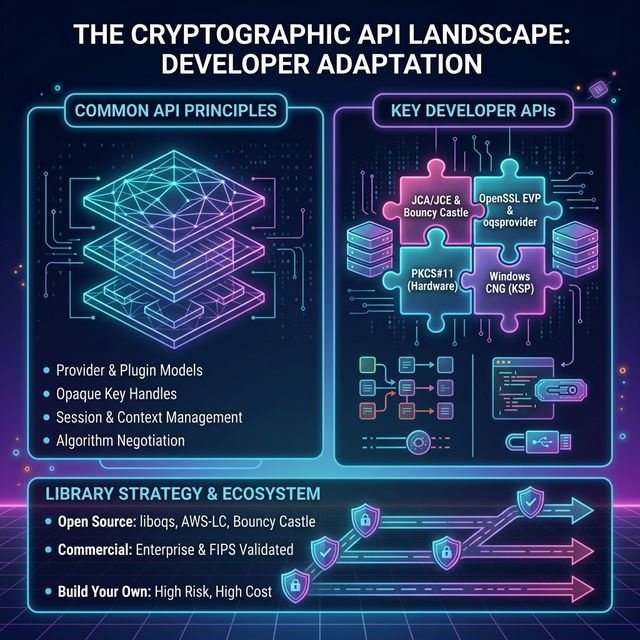
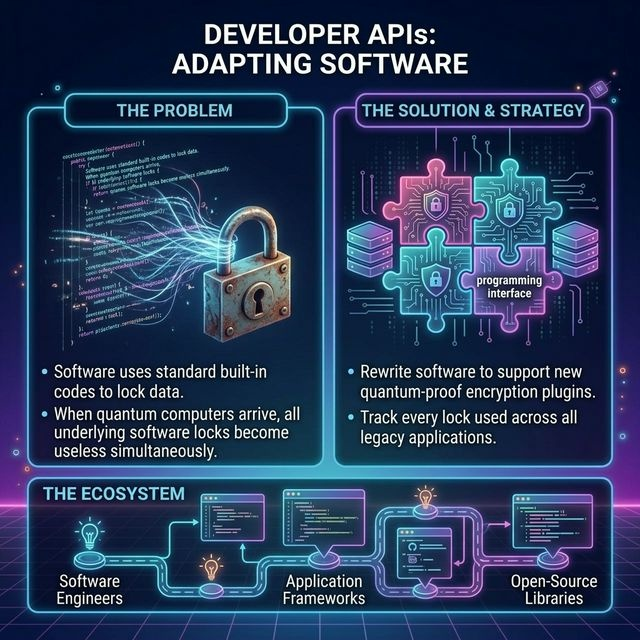
fix: rewrite curious summaries and infographics for EnergyUtilities, CryptoDevAPIs, and Entropy modules

diff --git a/src/components/PKILearning/modules/EnergyUtilities/curious-summary.md b/src/components/PKILearning/modules/EnergyUtilities/curious-summary.md
@@ -1,21 +1,6 @@
-# Energy & Utilities PQC — In Simple Terms
+Curious about why the power grid is exceptionally vulnerable?
 
-## What This Is About
-
-The systems that deliver electricity to your home, clean water to your tap, and natural gas to your stove are all controlled by computers. Power plants, water treatment facilities, oil pipelines, and electrical grids use digital networks to monitor equipment, balance supply and demand, and respond to emergencies. These control systems communicate using encrypted connections to prevent unauthorized access.
-
-Think of it like the locks on the control room doors at a power plant. Right now, those locks are strong enough that nobody can pick them. But quantum computers could eventually become the master lockpick that opens them all. If an attacker could break the encryption protecting these systems, they could potentially disrupt power to entire cities, contaminate water supplies, or cause industrial accidents.
-
-## Why It Matters
-
-Energy and utility systems are among the most critical infrastructure in any country. A cyberattack on a power grid does not just cause an inconvenience — it can endanger lives. Hospitals lose power. Heating systems fail in winter. Traffic signals go dark. Water purification stops. The cascading effects of a major utility disruption touch every part of society.
-
-These systems also have a unique challenge: much of the equipment was designed to last 20 to 30 years or more. The control devices in a power substation or water treatment plant are not like a phone you replace every few years. Upgrading their security means working with old hardware, limited processing power, and systems that can never be taken fully offline. You cannot just shut down the power grid to install a software update.
-
-## The Key Takeaway
-
-Energy and utility systems are high-value targets with uniquely difficult upgrade paths. Their equipment lasts decades, runs around the clock, and often has limited computing power. Upgrading these systems to quantum-safe security requires careful planning that accounts for these real-world constraints while ensuring that essential services are never interrupted.
-
-## What's Happening
-
-Energy regulators in the United States, Europe, and Asia are beginning to include quantum risk in their cybersecurity frameworks. The North American Electric Reliability Corporation (NERC) and similar bodies are evaluating how quantum threats affect compliance standards for power grids. Utility companies are conducting risk assessments to identify their most vulnerable systems. Equipment manufacturers are exploring how to add quantum-safe encryption to industrial control devices with limited processing power. Government agencies have flagged energy infrastructure as a top priority for quantum-safe upgrades. Pilot programs are underway to test quantum-safe communications in operational utility networks.
+**The Problem:** Unlike office laptops that are replaced every few years, power plants use safety-critical hardware that operates for decades. Future quantum computers will easily break current encryption long before this equipment physically expires. If a hacker forges a safety command, it can cause devastating physical blackouts or pipeline explosions.
+**The Solution:** The energy sector must apply advanced quantum-proof security directly to physical infrastructure today to prevent future catastrophic hacking. 
+**The Strategy:** Transitioning the power grid requires upgrading long-lasting hardware to support unforgeable commands, ensuring the lights stay on no matter how fast supercomputers evolve.
+**The Ecosystem:** Protecting the grid impacts power plants, transmission operators, and international energy regulatory agencies.

diff --git a/src/components/PKILearning/modules/CryptoDevAPIs/curious-summary.md b/src/components/PKILearning/modules/CryptoDevAPIs/curious-summary.md
@@ -1,23 +1,6 @@
-# Cryptographic APIs & Developer Best Practices — In Simple Terms
+Curious about how software developers must adapt?
 
-## What This Is About
-
-When developers build apps and websites, they do not invent encryption from scratch. Instead, they use pre-built toolkits — called cryptographic APIs. The transition to post-quantum security is not about developers using "quantum computing libraries" (which are for building quantum programs); it is about developers switching to "quantum-safe cryptographic libraries" that defend classical apps against quantum attacks.
-
-Think of it like upgrading the locks on your house. You don't need a quantum computer to install the new locks, but you do need new, certified locking mechanisms.
-
-## Why It Matters
-
-Almost every piece of software in the world uses encryption toolkits, but swapping out the old math for the new math isn't a simple drag-and-drop. The new quantum-safe algorithms behave very differently. For instance, the new encryption keys and digital signatures are often significantly larger in data size, which can affect network speed and memory usage.
-
-To handle this, developers must adopt "Crypto Agility" — a best practice where encryption code is written flexibly so algorithms can be easily swapped in the future without completely rewriting the application.
-
-## The Key Takeaways
-
-1. **Quantum-Safe Libraries**: The focus is on adopting standard, quantum-safe cryptographic libraries to protect classical software, NOT on using raw quantum computing SDKs.
-2. **Key Size & Performance**: Developers must account for the increased size of post-quantum keys and signatures, proactively designing systems that can handle the new memory and performance impacts.
-3. **Crypto Agility**: Adopting crypto-agile best practices ensures that applications are modular, allowing them to rapidly swap out algorithms if a new vulnerability is discovered or standards change.
-
-## What's Happening
-
-Major toolkit providers are already adding quantum-safe options. The Open Quantum Safe (OQS) project provides experimental libraries that developers can test today to understand the performance impacts of larger keys. Cloud providers are building quantum-safe APIs into their developer services, emphasizing crypto agility so that app builders can seamlessly upgrade as standards evolve.
+**The Problem:** Almost all modern software relies on standardized, built-in toolkits to lock sensitive data. When quantum computers arrive, all of these underlying foundational toolkits will become obsolete at the exact same time.
+**The Solution:** Developers must fundamentally rewrite their existing applications to interface with entirely new, quantum-proof encryption plugins.
+**The Strategy:** Organizations must systematically hunt down and inventory exactly where their software uses outdated encryption, and swap it out for quantum-safe code before sophisticated hackers can exploit those gaps.
+**The Ecosystem:** This massive transition affects every software engineer, application framework, and open-source code library.

diff --git a/src/components/PKILearning/modules/Entropy/curious-summary.md b/src/components/PKILearning/modules/Entropy/curious-summary.md
@@ -1,23 +1,6 @@
-# Entropy & Randomness — In Simple Terms
+Curious about why "randomness" is the strongest foundation of security?
 
-## What This Is About
-
-Every secret key, every password, and every secure connection on the internet starts with randomness. To create an encryption key that nobody can guess, a computer needs to generate truly unpredictable numbers.
-
-Most systems collect unpredictable physical events, like electrical noise or temperature fluctuations, using True Random Number Generators (TRNGs). Think of it like a perfect shuffle of a deck of cards — if an attacker cannot predict the shuffle, the keys generated from it are secure.
-
-## Why It Matters
-
-If an attacker can predict the random numbers a system uses, they can figure out the encryption keys — no matter how strong the encryption method itself is. As we move to post-quantum encryption, the quality of randomness is the invisible foundation of all digital security.
-
-Interestingly, **quantum computing does not create a new threat to TRNGs**. A mathematically secure true random number generator is just as secure against a quantum computer as it is against a classical computer. The real challenge is ensuring the generator doesn't physically break down or become predictable over time.
-
-## The Key Takeaways
-
-1. **Quantum Resilience**: Quantum computing is not creating a new threat to TRNGs. Good true randomness is inherently immune to quantum algorithms.
-2. **Failsafe Combinations**: A failsafe approach is possible by combining multiple sources of entropy. If one source fails or becomes predictable, the mathematical mixer ensures the final output remains perfectly random.
-3. **Provable Entropy**: Quantum Random Number Generators (QRNGs) introduce a new source of provable entropy. They use the fundamental laws of quantum physics (like measuring photons) to guarantee unpredictability, ensuring that no attacker can ever mathematically predict the output.
-
-## What's Happening
-
-Organizations are layering TRNGs, standard pseudo-random generators, and QRNGs together to build unbreakable entropy pools. Testing and certifying these combined randomness sources is becoming a critical and required step in post-quantum security evaluations.
+**The Problem:** The strongest encryption lock in the world is completely worthless if the random numbers used to create the secret key are predictable. If your system's randomness is flawed, hackers can simply guess your secure keys instantly.
+**The Solution:** Security architectures must generate bulletproof "entropy" (true unpredictability) by combining physical hardware noise with certified software mixing algorithms.
+**The Strategy:** Organizations must constantly monitor their random number generators for failure or bias, ensuring hackers can never guess their underlying mathematical patterns.
+**The Ecosystem:** Perfect randomness relies entirely on computer hardware manufacturers, operating system developers, and strict government security certifiers.
